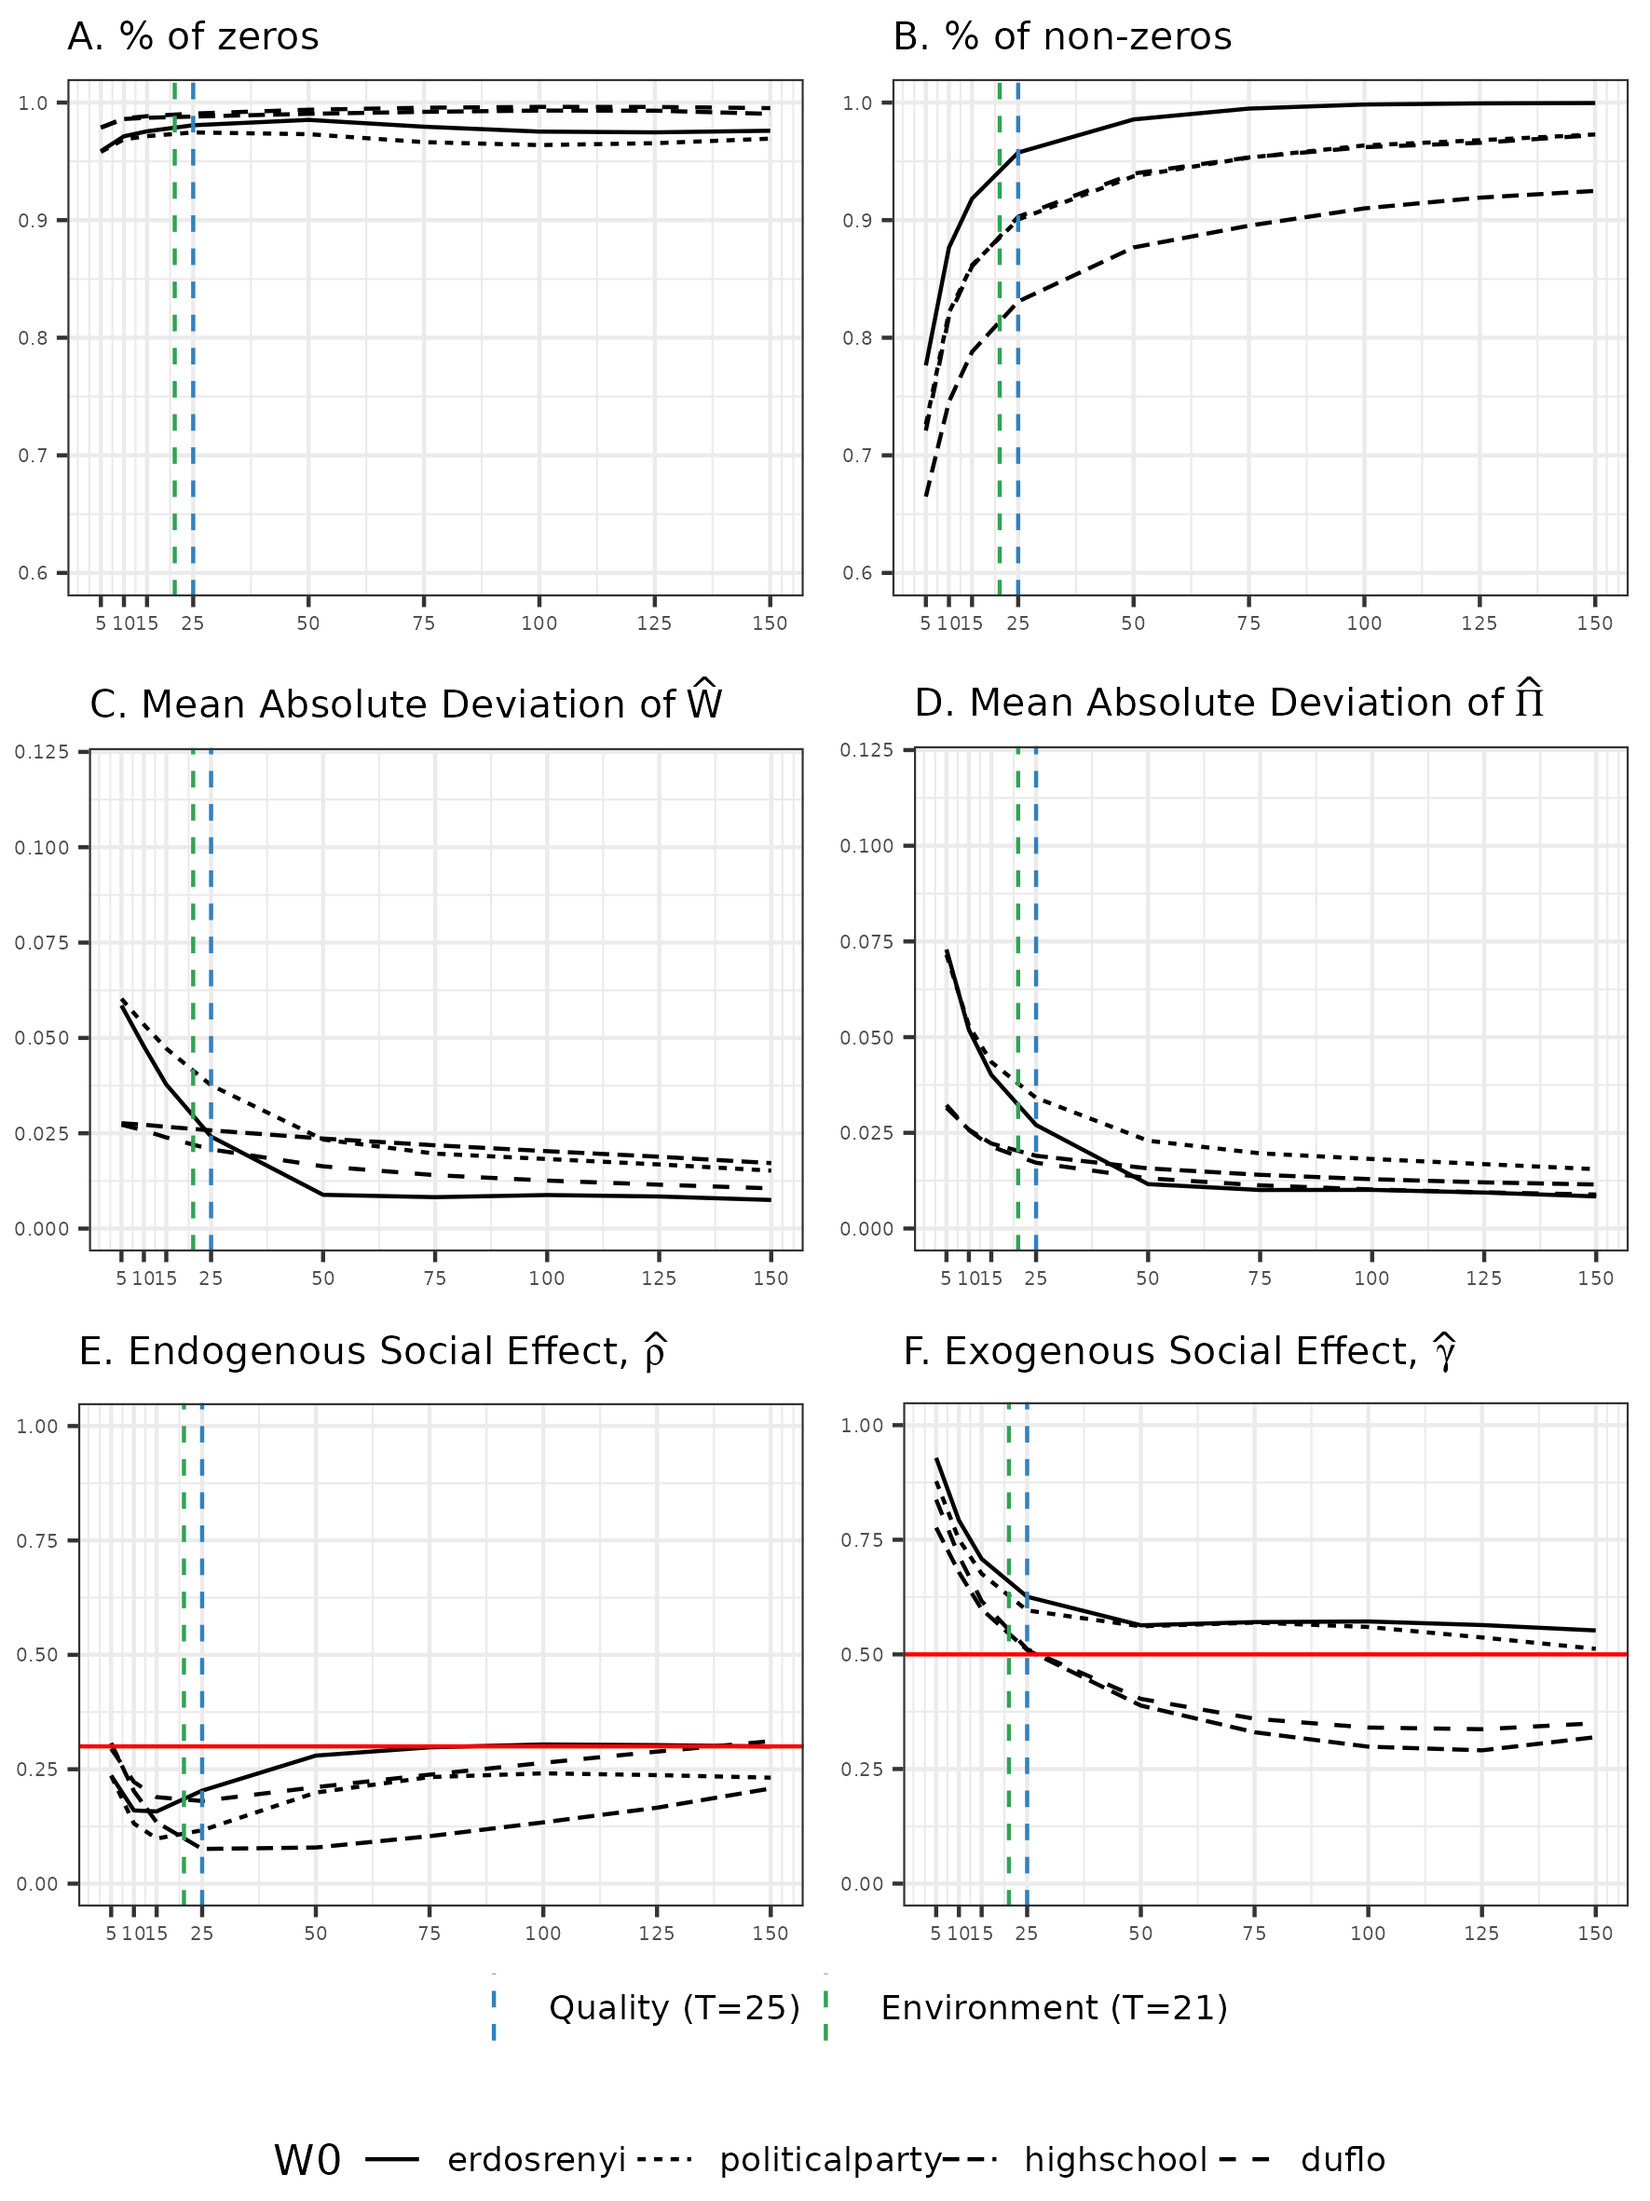
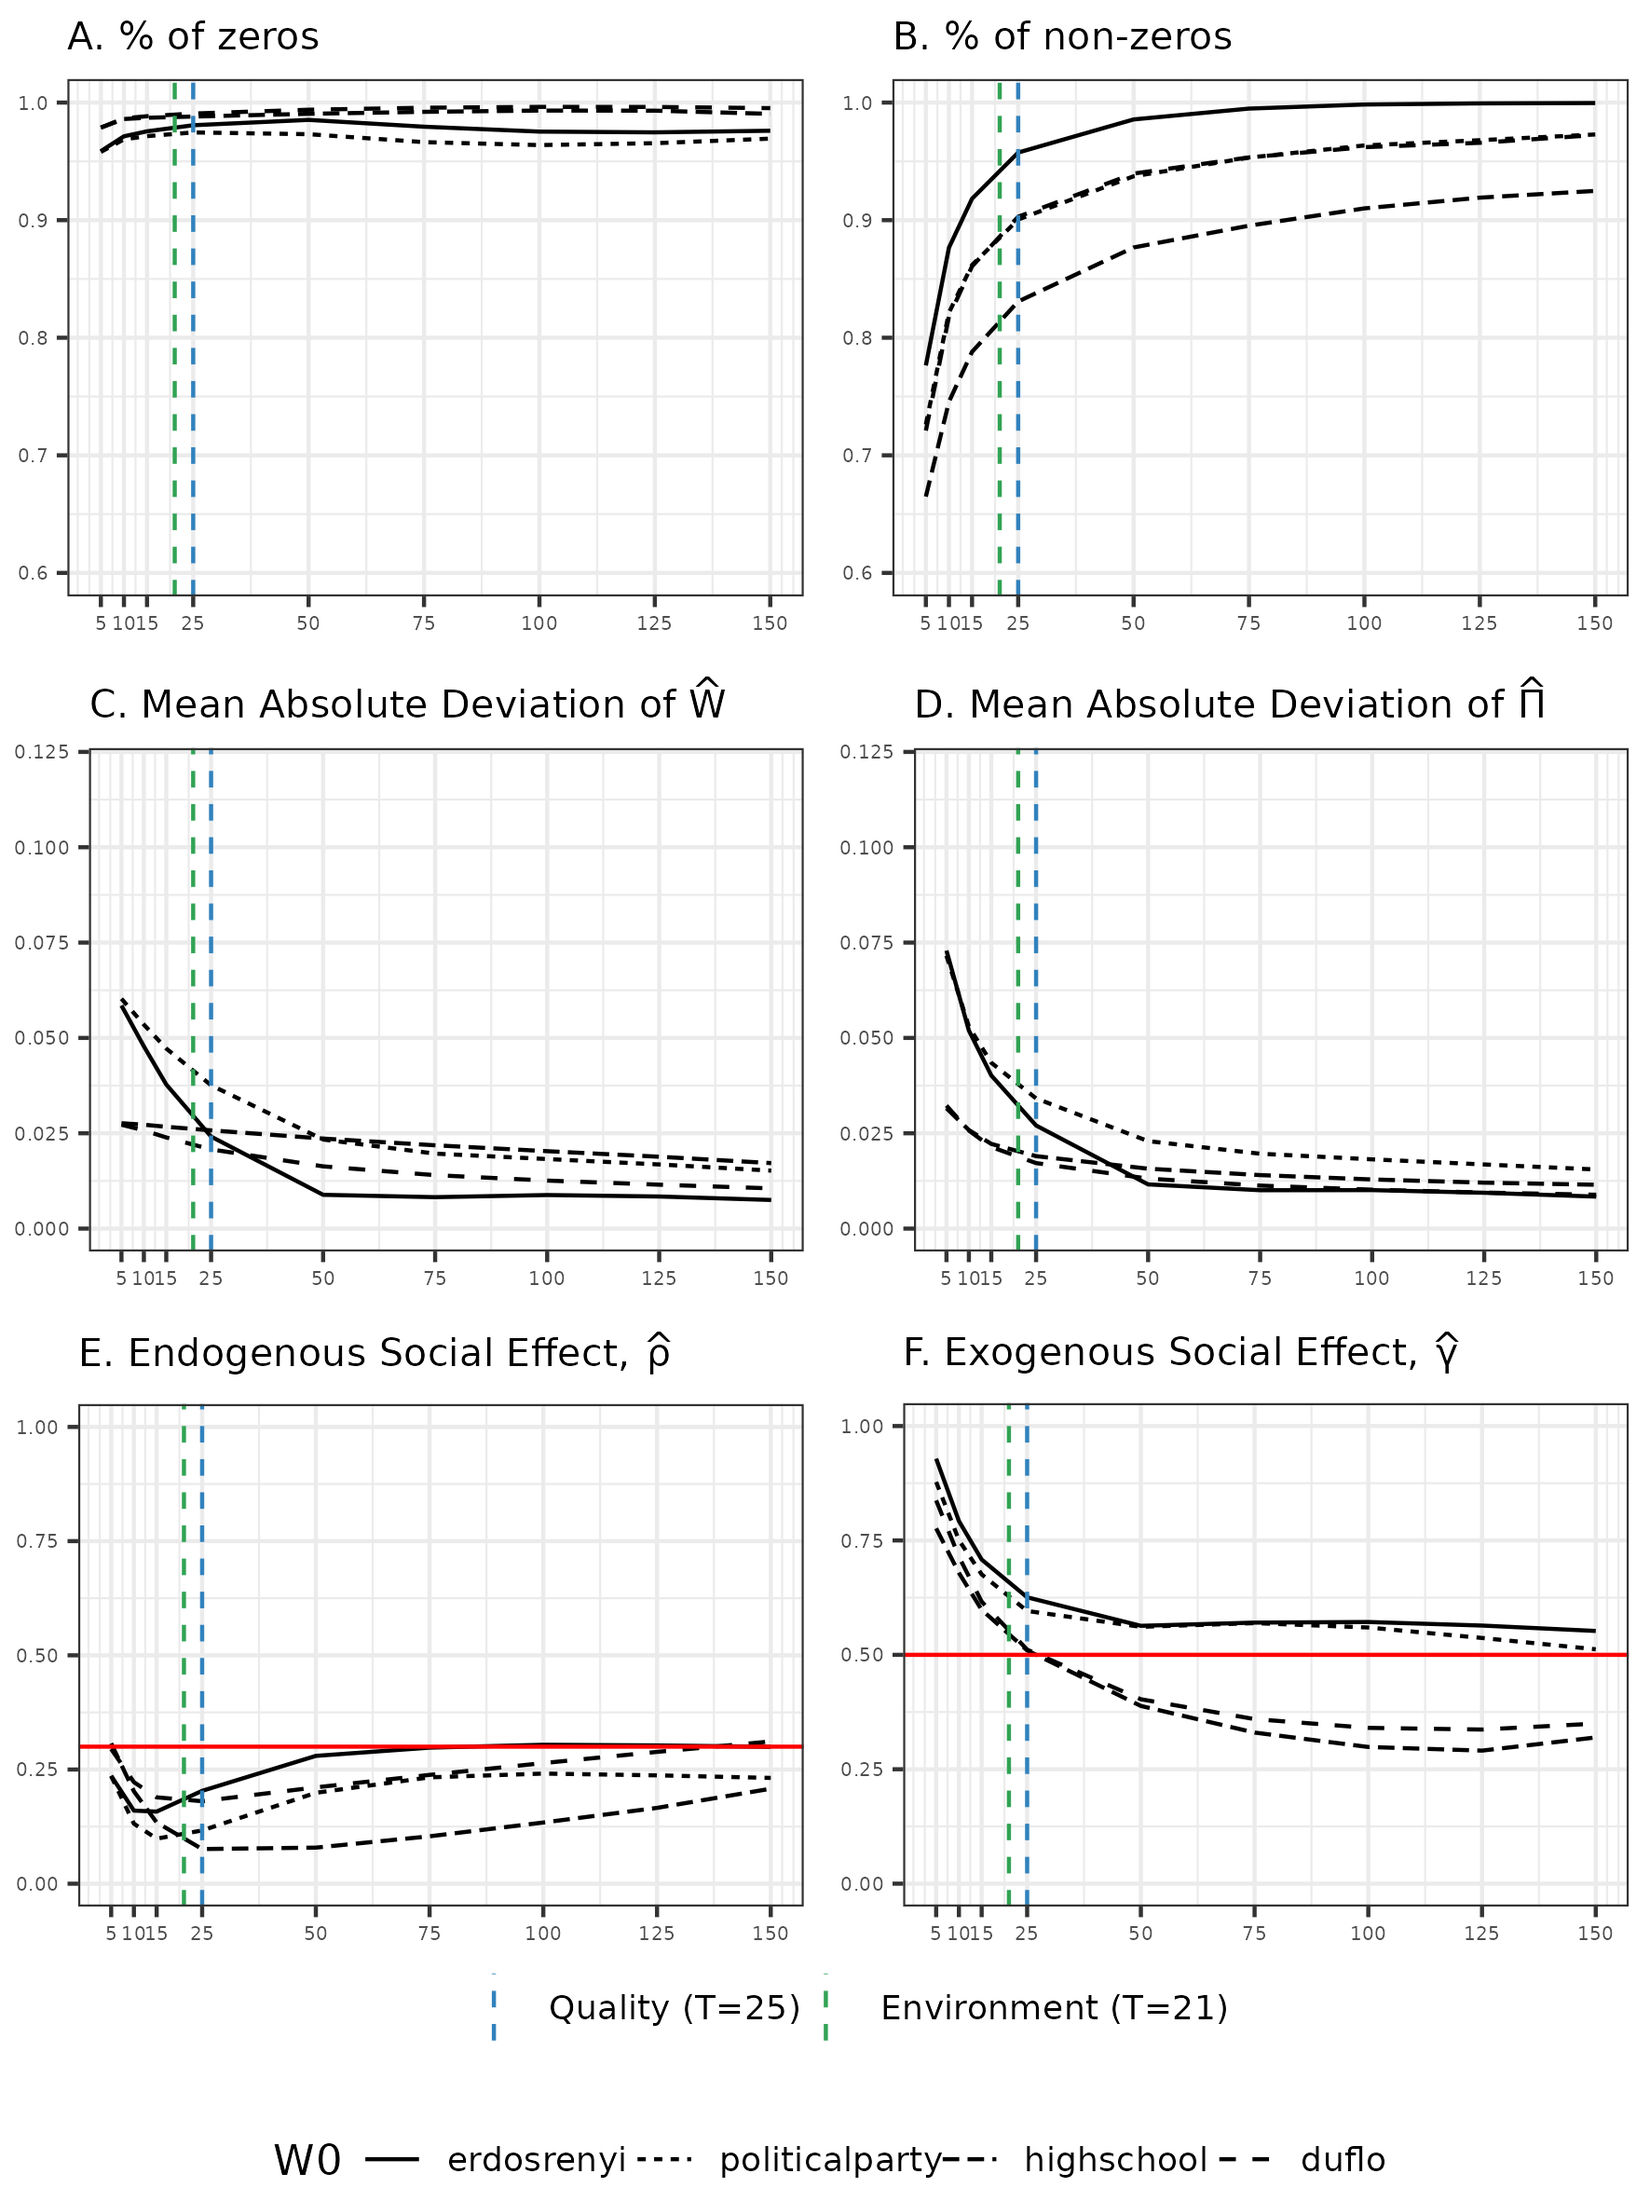
polishing depaula replication

diff --git a/assets/tables/jaccard_similarity_environment.tex b/assets/tables/jaccard_similarity_environment.tex
@@ -9,15 +9,15 @@
   & Recovered & Geo + Culture & Geography & Trade & Cultural dist.\\
 \midrule
 Recovered & 1.000 &  &  &  & \\
-Geo + Culture & 0.168 & 1.000 &  &  & \\
-Geography & 0.097 & 0.579 & 1.000 &  & \\
-Trade & 0.114 & 0.214 & 0.209 & 1.000 & \\
-Cultural dist. & 0.107 & 0.579 & 0.157 & 0.141 & 1.000\\
+Geo + Culture & 0.043 & 1.000 &  &  & \\
+Geography & 0.037 & 0.579 & 1.000 &  & \\
+Trade & 0.047 & 0.214 & 0.209 & 1.000 & \\
+Cultural dist. & 0.028 & 0.579 & 0.157 & 0.141 & 1.000\\
 \bottomrule
 \end{tabular}
 \begin{tablenotes}[para]
 \item \textit{Notes:} 
-\item This table shows the lower triangle only of the similarity matrix based on the Jaccard index for all the Environment networks considered in this paper. A link is active if $w_{ij} > 0$.
+\item This table shows the lower triangle only of the similarity matrix based on the Jaccard index for all the Environment networks considered in this paper. A link is active if $w_{ij} neq 0$.
 \end{tablenotes}
 \end{threeparttable}
 \end{table}

diff --git a/assets/tables/jaccard_similarity_quality.tex b/assets/tables/jaccard_similarity_quality.tex
@@ -9,15 +9,15 @@
   & Recovered & Geo + Trade & Geography & Trade & Cultural dist.\\
 \midrule
 Recovered & 1.000 &  &  &  & \\
-Geo + Trade & 0.170 & 1.000 &  &  & \\
-Geography & 0.124 & 0.604 & 1.000 &  & \\
-Trade & 0.101 & 0.604 & 0.209 & 1.000 & \\
-Cultural dist. & 0.111 & 0.181 & 0.157 & 0.141 & 1.000\\
+Geo + Trade & 0.052 & 1.000 &  &  & \\
+Geography & 0.069 & 0.604 & 1.000 &  & \\
+Trade & 0.019 & 0.604 & 0.209 & 1.000 & \\
+Cultural dist. & 0.009 & 0.181 & 0.157 & 0.141 & 1.000\\
 \bottomrule
 \end{tabular}
 \begin{tablenotes}[para]
 \item \textit{Notes:} 
-\item This table shows the lower triangle only of the similarity matrix based on the Jaccard index for all the Quality networks considered in this paper. A link is active if $w_{ij} > 0$.
+\item This table shows the lower triangle only of the similarity matrix based on the Jaccard index for all the Quality networks considered in this paper. A link is active if $w_{ij} neq 0$.
 \end{tablenotes}
 \end{threeparttable}
 \end{table}
